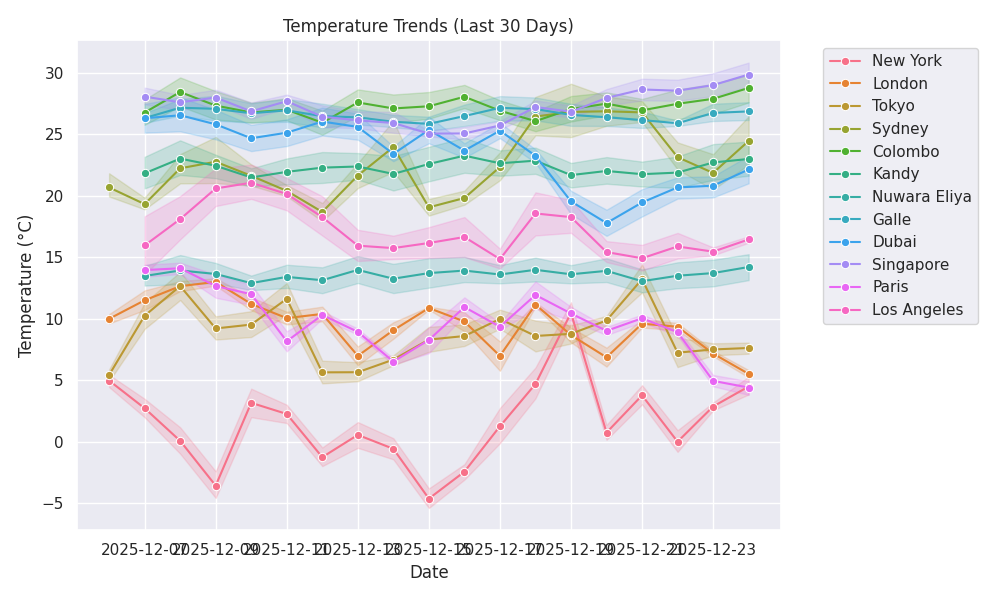
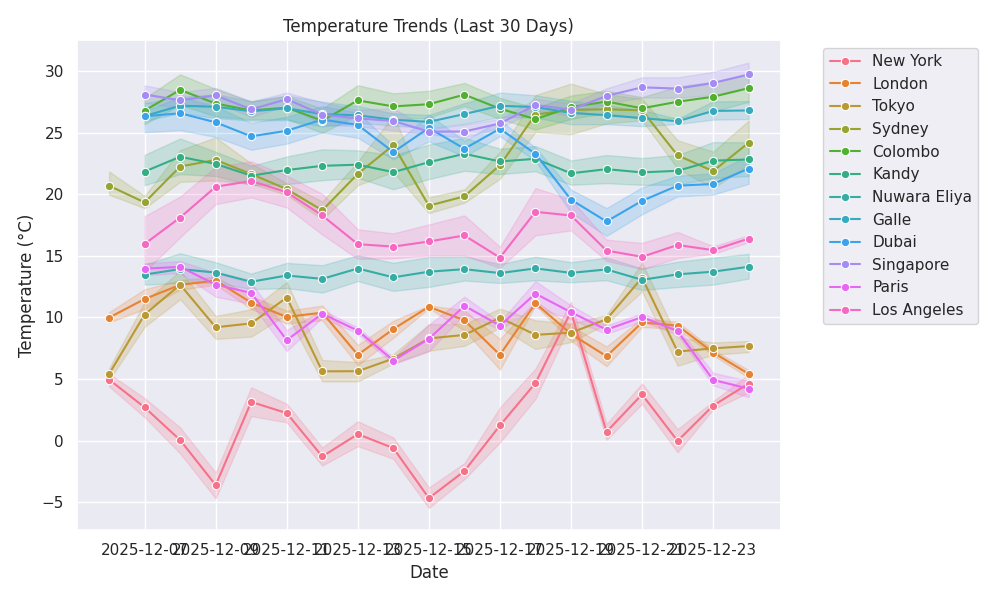
🌦 Weather update: 2025-12-24 18:19

diff --git a/public/index.html b/public/index.html
@@ -11,7 +11,7 @@
     <div class="max-w-6xl mx-auto">
         <header class="mb-8 text-center">
             <h1 class="text-4xl font-bold mb-2">🌍 Global Weather Dashboard</h1>
-            <p class="text-slate-400">Last Updated: 2025-12-24 17:11:42</p>
+            <p class="text-slate-400">Last Updated: 2025-12-24 18:19:42</p>
         </header>
         
         <!-- AI Summary -->
@@ -29,12 +29,12 @@
                     <span class="text-3xl">☁</span>
                 </div>
                 <div class="mt-4">
-                    <p class="text-4xl font-bold">2.21°C</p>
-                    <p class="text-slate-400 capitalize">broken clouds</p>
+                    <p class="text-4xl font-bold">1.55°C</p>
+                    <p class="text-slate-400 capitalize">overcast clouds</p>
                 </div>
                 <div class="mt-4 text-sm text-slate-500">
-                    <p>💧 Humidity: 69%</p>
-                    <p>💨 Wind: 8.75 m/s</p>
+                    <p>💧 Humidity: 70%</p>
+                    <p>💨 Wind: 9.26 m/s</p>
                 </div>
             </div>
             
@@ -44,12 +44,12 @@
                     <span class="text-3xl">☁</span>
                 </div>
                 <div class="mt-4">
-                    <p class="text-4xl font-bold">4.39°C</p>
-                    <p class="text-slate-400 capitalize">broken clouds</p>
+                    <p class="text-4xl font-bold">4.17°C</p>
+                    <p class="text-slate-400 capitalize">scattered clouds</p>
                 </div>
                 <div class="mt-4 text-sm text-slate-500">
-                    <p>💧 Humidity: 71%</p>
-                    <p>💨 Wind: 4.63 m/s</p>
+                    <p>💧 Humidity: 72%</p>
+                    <p>💨 Wind: 5.14 m/s</p>
                 </div>
             </div>
             
@@ -59,12 +59,12 @@
                     <span class="text-3xl">☁</span>
                 </div>
                 <div class="mt-4">
-                    <p class="text-4xl font-bold">19.86°C</p>
-                    <p class="text-slate-400 capitalize">overcast clouds</p>
+                    <p class="text-4xl font-bold">19.37°C</p>
+                    <p class="text-slate-400 capitalize">scattered clouds</p>
                 </div>
                 <div class="mt-4 text-sm text-slate-500">
                     <p>💧 Humidity: 65%</p>
-                    <p>💨 Wind: 6.69 m/s</p>
+                    <p>💨 Wind: 5.66 m/s</p>
                 </div>
             </div>
             
@@ -74,12 +74,12 @@
                     <span class="text-3xl">☁</span>
                 </div>
                 <div class="mt-4">
-                    <p class="text-4xl font-bold">27.04°C</p>
+                    <p class="text-4xl font-bold">26.93°C</p>
                     <p class="text-slate-400 capitalize">broken clouds</p>
                 </div>
                 <div class="mt-4 text-sm text-slate-500">
-                    <p>💧 Humidity: 84%</p>
-                    <p>💨 Wind: 3.6 m/s</p>
+                    <p>💧 Humidity: 86%</p>
+                    <p>💨 Wind: 2.57 m/s</p>
                 </div>
             </div>
             
@@ -89,11 +89,11 @@
                     <span class="text-3xl">☀</span>
                 </div>
                 <div class="mt-4">
-                    <p class="text-4xl font-bold">21.96°C</p>
+                    <p class="text-4xl font-bold">20.96°C</p>
                     <p class="text-slate-400 capitalize">clear sky</p>
                 </div>
                 <div class="mt-4 text-sm text-slate-500">
-                    <p>💧 Humidity: 60%</p>
+                    <p>💧 Humidity: 64%</p>
                     <p>💨 Wind: 2.06 m/s</p>
                 </div>
             </div>
@@ -104,12 +104,12 @@
                     <span class="text-3xl">☁</span>
                 </div>
                 <div class="mt-4">
-                    <p class="text-4xl font-bold">25.43°C</p>
+                    <p class="text-4xl font-bold">25.38°C</p>
                     <p class="text-slate-400 capitalize">scattered clouds</p>
                 </div>
                 <div class="mt-4 text-sm text-slate-500">
                     <p>💧 Humidity: 84%</p>
-                    <p>💨 Wind: 2.21 m/s</p>
+                    <p>💨 Wind: 2.52 m/s</p>
                 </div>
             </div>
             
@@ -119,12 +119,12 @@
                     <span class="text-3xl">☁</span>
                 </div>
                 <div class="mt-4">
-                    <p class="text-4xl font-bold">12.14°C</p>
+                    <p class="text-4xl font-bold">12.61°C</p>
                     <p class="text-slate-400 capitalize">overcast clouds</p>
                 </div>
                 <div class="mt-4 text-sm text-slate-500">
-                    <p>💧 Humidity: 98%</p>
-                    <p>💨 Wind: 1.36 m/s</p>
+                    <p>💧 Humidity: 99%</p>
+                    <p>💨 Wind: 1.33 m/s</p>
                 </div>
             </div>
             
@@ -134,12 +134,12 @@
                     <span class="text-3xl">☁</span>
                 </div>
                 <div class="mt-4">
-                    <p class="text-4xl font-bold">19.38°C</p>
+                    <p class="text-4xl font-bold">19.77°C</p>
                     <p class="text-slate-400 capitalize">broken clouds</p>
                 </div>
                 <div class="mt-4 text-sm text-slate-500">
-                    <p>💧 Humidity: 99%</p>
-                    <p>💨 Wind: 1.95 m/s</p>
+                    <p>💧 Humidity: 100%</p>
+                    <p>💨 Wind: 1.96 m/s</p>
                 </div>
             </div>
             
@@ -150,26 +150,26 @@
                 </div>
                 <div class="mt-4">
                     <p class="text-4xl font-bold">25.58°C</p>
-                    <p class="text-slate-400 capitalize">few clouds</p>
+                    <p class="text-slate-400 capitalize">scattered clouds</p>
                 </div>
                 <div class="mt-4 text-sm text-slate-500">
-                    <p>💧 Humidity: 88%</p>
-                    <p>💨 Wind: 6.0 m/s</p>
+                    <p>💧 Humidity: 87%</p>
+                    <p>💨 Wind: 5.99 m/s</p>
                 </div>
             </div>
             
             <div class="bg-slate-800 p-6 rounded-xl shadow-lg border-t-4 border-blue-500 hover:scale-105 transition-transform">
                 <div class="flex justify-between items-start">
                     <h3 class="text-xl font-bold">New York</h3>
-                    <span class="text-3xl">☀</span>
+                    <span class="text-3xl">☁</span>
                 </div>
                 <div class="mt-4">
-                    <p class="text-4xl font-bold">7.34°C</p>
-                    <p class="text-slate-400 capitalize">clear sky</p>
+                    <p class="text-4xl font-bold">7.28°C</p>
+                    <p class="text-slate-400 capitalize">few clouds</p>
                 </div>
                 <div class="mt-4 text-sm text-slate-500">
-                    <p>💧 Humidity: 45%</p>
-                    <p>💨 Wind: 12.35 m/s</p>
+                    <p>💧 Humidity: 47%</p>
+                    <p>💨 Wind: 8.23 m/s</p>
                 </div>
             </div>
             
@@ -179,12 +179,12 @@
                     <span class="text-3xl">☁</span>
                 </div>
                 <div class="mt-4">
-                    <p class="text-4xl font-bold">8.87°C</p>
+                    <p class="text-4xl font-bold">8.75°C</p>
                     <p class="text-slate-400 capitalize">broken clouds</p>
                 </div>
                 <div class="mt-4 text-sm text-slate-500">
                     <p>💧 Humidity: 90%</p>
-                    <p>💨 Wind: 1.54 m/s</p>
+                    <p>💨 Wind: 0.51 m/s</p>
                 </div>
             </div>
             
@@ -194,12 +194,12 @@
                     <span class="text-3xl">🌧</span>
                 </div>
                 <div class="mt-4">
-                    <p class="text-4xl font-bold">16.81°C</p>
-                    <p class="text-slate-400 capitalize">light rain</p>
+                    <p class="text-4xl font-bold">15.51°C</p>
+                    <p class="text-slate-400 capitalize">moderate rain</p>
                 </div>
                 <div class="mt-4 text-sm text-slate-500">
-                    <p>💧 Humidity: 94%</p>
-                    <p>💨 Wind: 7.72 m/s</p>
+                    <p>💧 Humidity: 96%</p>
+                    <p>💨 Wind: 8.23 m/s</p>
                 </div>
             </div>
             

diff --git a/README.md b/README.md
@@ -8,8 +8,8 @@
 
 ---
 
-## ⚡ Live Status (Updated: 2025-12-24 17:11 UTC)
-![Paris](https://img.shields.io/badge/Paris-2.21°C-blue) ![London](https://img.shields.io/badge/London-4.39°C-blue) ![Sydney](https://img.shields.io/badge/Sydney-19.86°C-green) ![Singapore](https://img.shields.io/badge/Singapore-27.04°C-orange) ![Dubai](https://img.shields.io/badge/Dubai-21.96°C-green) ![Galle](https://img.shields.io/badge/Galle-25.43°C-orange) ![Nuwara Eliya](https://img.shields.io/badge/Nuwara%20Eliya-12.14°C-blue) ![Kandy](https://img.shields.io/badge/Kandy-19.38°C-green) ![Colombo](https://img.shields.io/badge/Colombo-25.58°C-orange) ![New York](https://img.shields.io/badge/New%20York-7.34°C-blue) ![Tokyo](https://img.shields.io/badge/Tokyo-8.87°C-blue) ![Los Angeles](https://img.shields.io/badge/Los%20Angeles-16.81°C-green) 
+## ⚡ Live Status (Updated: 2025-12-24 18:19 UTC)
+![Paris](https://img.shields.io/badge/Paris-1.55°C-blue) ![London](https://img.shields.io/badge/London-4.17°C-blue) ![Sydney](https://img.shields.io/badge/Sydney-19.37°C-green) ![Singapore](https://img.shields.io/badge/Singapore-26.93°C-orange) ![Dubai](https://img.shields.io/badge/Dubai-20.96°C-green) ![Galle](https://img.shields.io/badge/Galle-25.38°C-orange) ![Nuwara Eliya](https://img.shields.io/badge/Nuwara%20Eliya-12.61°C-blue) ![Kandy](https://img.shields.io/badge/Kandy-19.77°C-green) ![Colombo](https://img.shields.io/badge/Colombo-25.58°C-orange) ![New York](https://img.shields.io/badge/New%20York-7.28°C-blue) ![Tokyo](https://img.shields.io/badge/Tokyo-8.75°C-blue) ![Los Angeles](https://img.shields.io/badge/Los%20Angeles-15.51°C-green) 
 
 <div align="center">
   <h3>🏆 Weather Records (Live)</h3>
@@ -19,8 +19,8 @@
         <td align="center">❄ <b>Coldest City</b></td>
     </tr>
     <tr>
-        <td align="center"><b>Singapore</b><br>27.04°C</td>
-        <td align="center"><b>Paris</b><br>2.21°C</td>
+        <td align="center"><b>Singapore</b><br>26.93°C</td>
+        <td align="center"><b>Paris</b><br>1.55°C</td>
     </tr>
   </table>
 </div>
@@ -28,18 +28,18 @@
 ## 📊 Global Overview
 | 🌍 City | 🌡 Temp | 🌤 Condition | 💧 Humidity | 🌬 Wind |
 |---|---|---|---|---|
-| **Paris** | 2.21°C | broken clouds | 🟦🟦🟦⬜⬜ 69% | 8.75 m/s |
-| **London** | 4.39°C | broken clouds | 🟦🟦🟦⬜⬜ 71% | 4.63 m/s |
-| **Sydney** | 19.86°C | overcast clouds | 🟦🟦🟦⬜⬜ 65% | 6.69 m/s |
-| **Singapore** | 27.04°C | broken clouds | 🟦🟦🟦🟦⬜ 84% | 3.6 m/s |
-| **Dubai** | 21.96°C | clear sky | 🟦🟦🟦⬜⬜ 60% | 2.06 m/s |
-| **Galle** | 25.43°C | scattered clouds | 🟦🟦🟦🟦⬜ 84% | 2.21 m/s |
-| **Nuwara Eliya** | 12.14°C | overcast clouds | 🟦🟦🟦🟦⬜ 98% | 1.36 m/s |
-| **Kandy** | 19.38°C | broken clouds | 🟦🟦🟦🟦⬜ 99% | 1.95 m/s |
-| **Colombo** | 25.58°C | few clouds | 🟦🟦🟦🟦⬜ 88% | 6.0 m/s |
-| **New York** | 7.34°C | clear sky | 🟦🟦⬜⬜⬜ 45% | 12.35 m/s |
-| **Tokyo** | 8.87°C | broken clouds | 🟦🟦🟦🟦⬜ 90% | 1.54 m/s |
-| **Los Angeles** | 16.81°C | light rain | 🟦🟦🟦🟦⬜ 94% | 7.72 m/s |
+| **Paris** | 1.55°C | overcast clouds | 🟦🟦🟦⬜⬜ 70% | 9.26 m/s |
+| **London** | 4.17°C | scattered clouds | 🟦🟦🟦⬜⬜ 72% | 5.14 m/s |
+| **Sydney** | 19.37°C | scattered clouds | 🟦🟦🟦⬜⬜ 65% | 5.66 m/s |
+| **Singapore** | 26.93°C | broken clouds | 🟦🟦🟦🟦⬜ 86% | 2.57 m/s |
+| **Dubai** | 20.96°C | clear sky | 🟦🟦🟦⬜⬜ 64% | 2.06 m/s |
+| **Galle** | 25.38°C | scattered clouds | 🟦🟦🟦🟦⬜ 84% | 2.52 m/s |
+| **Nuwara Eliya** | 12.61°C | overcast clouds | 🟦🟦🟦🟦⬜ 99% | 1.33 m/s |
+| **Kandy** | 19.77°C | broken clouds | 🟦🟦🟦🟦🟦 100% | 1.96 m/s |
+| **Colombo** | 25.58°C | scattered clouds | 🟦🟦🟦🟦⬜ 87% | 5.99 m/s |
+| **New York** | 7.28°C | few clouds | 🟦🟦⬜⬜⬜ 47% | 8.23 m/s |
+| **Tokyo** | 8.75°C | broken clouds | 🟦🟦🟦🟦⬜ 90% | 0.51 m/s |
+| **Los Angeles** | 15.51°C | moderate rain | 🟦🟦🟦🟦⬜ 96% | 8.23 m/s |
 
 
 ## 📈 Temperature Trends
